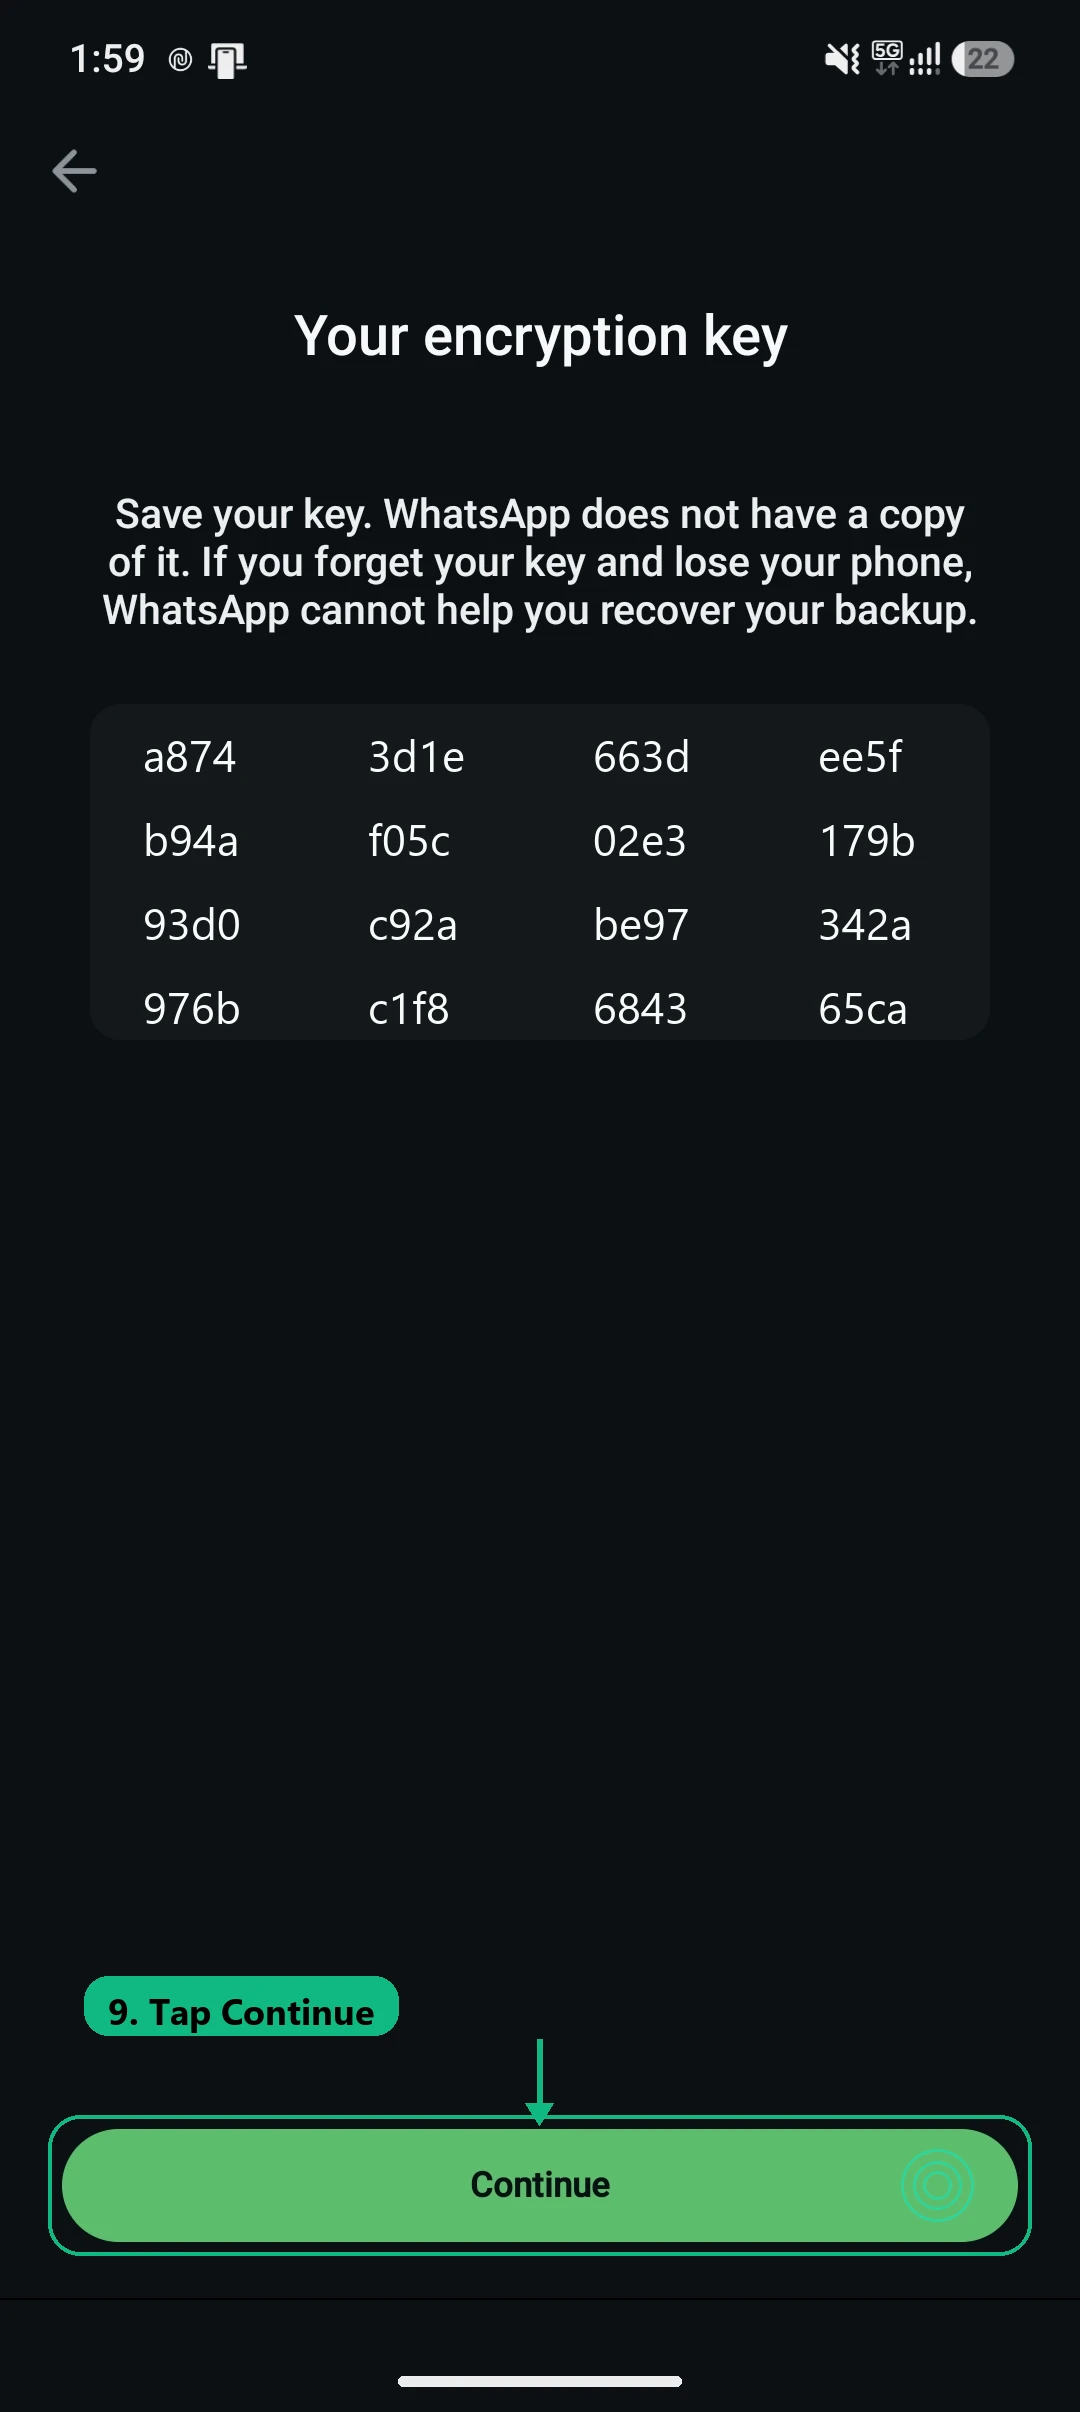
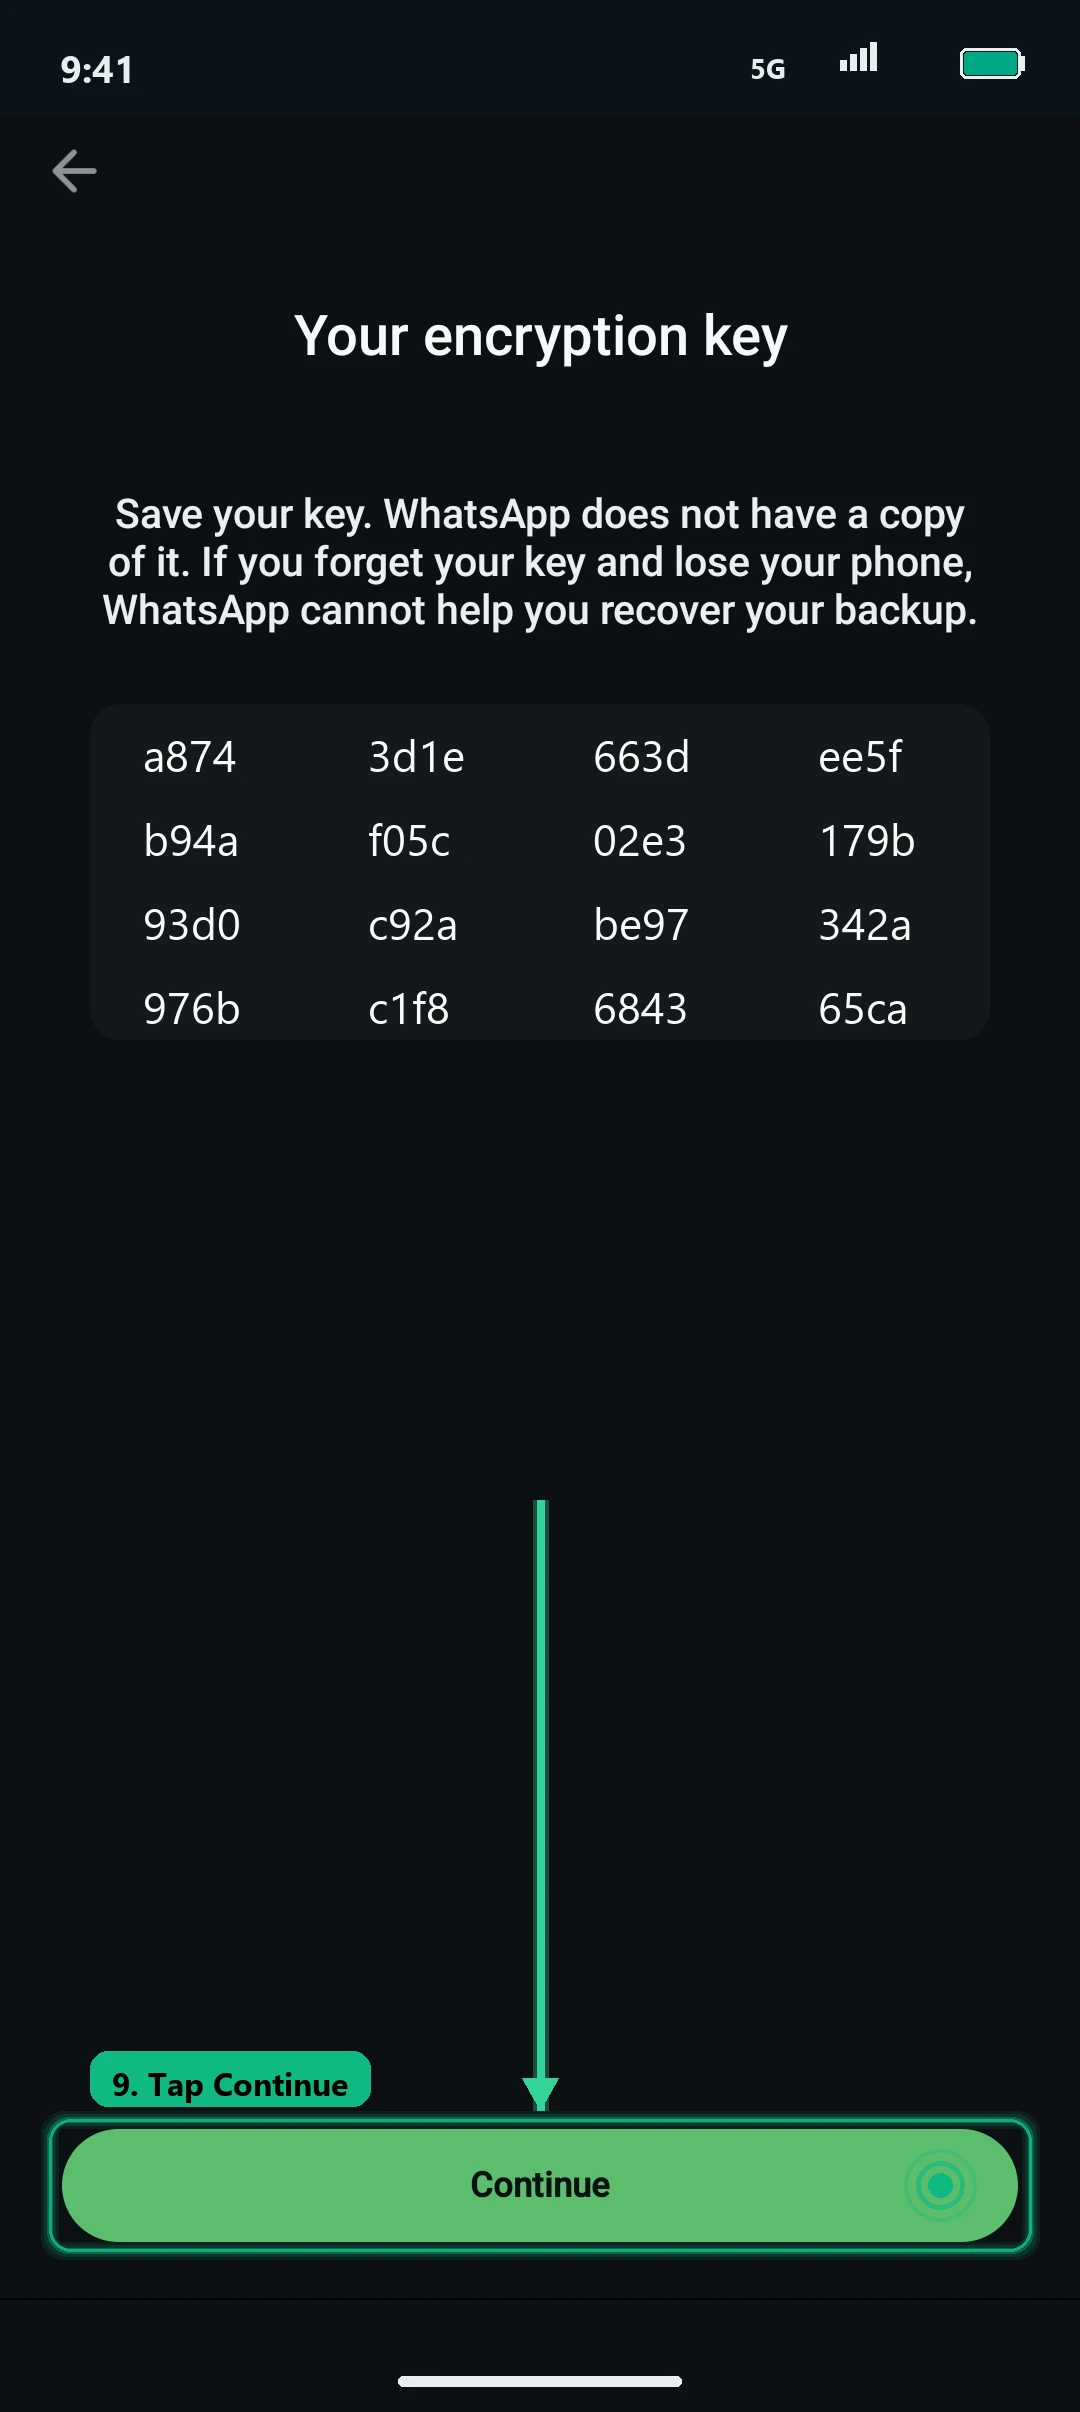
fix missing tutorial carousels

diff --git a/scripts/process_tutorial_assets.py b/scripts/process_tutorial_assets.py
@@ -295,55 +295,11 @@ def draw_ripple(draw: ImageDraw.Draw, cx: int, cy: int, r_max: int = 36, color=A
         if r > 0:
             draw.ellipse([cx - r, cy - r, cx + r, cy + r], outline=color, width=3)
 
-def draw_button_highlight(draw: ImageDraw.Draw, btn_box: tuple, badge_num: int, badge_text: str, arrow_len: int = 70):
-    """Draw standard green rounded bounding box with badge pill and arrow."""
-    x0, y0, x1, y1 = btn_box
-    box_x0 = x0 - 14
-    box_y0 = y0 - 14
-    box_x1 = x1 + 14
-    box_y1 = y1 + 14
-
-    draw.rounded_rectangle([box_x0, box_y0, box_x1, box_y1], radius=32, outline=ACCENT_GREEN, width=4)
-
-    ripple_cx = x1 - 80
-    ripple_cy = (y0 + y1) // 2
-    draw_ripple(draw, ripple_cx, ripple_cy, r_max=36, color=BRIGHT_GREEN)
-
-    font_badge = get_font(36, bold=True)
-    full_text = f"{badge_num}. {badge_text}"
-    t_box = font_badge.getbbox(full_text)
-    tw = t_box[2] - t_box[0]
-    th = t_box[3] - t_box[1]
-
-    pad_x = 24
-    pad_y = 12
-    badge_w = tw + pad_x * 2
-    badge_h = th + pad_y * 2
-
-    badge_x0 = box_x0 + 36
-    badge_y0 = box_y0 - badge_h - arrow_len
-    badge_x1 = badge_x0 + badge_w
-    badge_y1 = badge_y0 + badge_h
-
-    draw.rounded_rectangle([badge_x0, badge_y0, badge_x1, badge_y1], radius=24, fill=ACCENT_GREEN)
-    tx = badge_x0 + pad_x
-    ty = badge_y0 + (badge_h - th) // 2 - 2
-    draw.text((tx, ty), full_text, fill=(0, 0, 0), font=font_badge)
-
-    arrow_x = (x0 + x1) // 2
-    arrow_y0 = badge_y1 + 4
-    arrow_y1 = box_y0 - 2
-    draw.line([arrow_x, arrow_y0, arrow_x, arrow_y1], fill=ACCENT_GREEN, width=6)
-    draw.polygon([
-        (arrow_x, arrow_y1 + 12),
-        (arrow_x - 14, arrow_y1 - 10),
-        (arrow_x + 14, arrow_y1 - 10),
-    ], fill=ACCENT_GREEN)
-
 def process_slide_7() -> Image.Image:
     """Step 8 (Slide 7): Long press on key table & tap Copy."""
     raw = Image.open(os.path.join(RAW_DIR, "7.png"))
     im = normalize_canvas(raw)
+    draw_clean_status_bar(im)
     draw = ImageDraw.Draw(im)
 
     redact_key_table(draw, card_y_top=704)
@@ -391,33 +347,59 @@ def process_slide_7() -> Image.Image:
     return im
 
 def process_slide_8() -> Image.Image:
-    """Step 9 (Slide 8): Tap Continue."""
+    """Step 9 (Slide 8): Tap Continue (matches wa_step6.webp design language)."""
     raw = Image.open(os.path.join(RAW_DIR, "7.png"))
     im = normalize_canvas(raw)
+    draw_clean_status_bar(im)
     draw = ImageDraw.Draw(im)
     redact_key_table(draw, card_y_top=704)
-    btn_box = (62, 2129, 1017, 2241)
-    draw_button_highlight(draw, btn_box, badge_num=9, badge_text="Tap Continue", arrow_len=80)
-    return im
+    # Box [50, 2120, 1030, 2250] with tight label and long arrow starting at Y=1500
+    out = draw_focus_spotlight(
+        im,
+        [50, 2120, 1030, 2250],
+        color=ACCENT_GREEN,
+        label="9. Tap Continue",
+        badge_pos="above",
+        arrow_dir="down",
+        arrow_from_y=1500
+    )
+    return out
 
 def process_slide_9() -> Image.Image:
-    """Step 10 (Slide 9): Confirm I Saved My 64-digit Key."""
+    """Step 10 (Slide 9): Confirm I Saved My 64-digit Key (matches wa_step6.webp design language)."""
     raw = Image.open(os.path.join(RAW_DIR, "8.png"))
     im = normalize_canvas(raw)
+    draw_clean_status_bar(im)
     draw = ImageDraw.Draw(im)
     redact_key_table(draw, card_y_top=727)
-    btn_box = (62, 1995, 1017, 2105)
-    draw_button_highlight(draw, btn_box, badge_num=10, badge_text="Tap 'I Saved My Key'", arrow_len=75)
-    return im
+    # Box [50, 1985, 1030, 2115] with tight label and long arrow starting at Y=1400
+    out = draw_focus_spotlight(
+        im,
+        [50, 1985, 1030, 2115],
+        color=ACCENT_GREEN,
+        label="10. Tap 'I Saved My Key'",
+        badge_pos="above",
+        arrow_dir="down",
+        arrow_from_y=1400
+    )
+    return out
 
 def process_slide_10() -> Image.Image:
-    """Step 11 (Slide 10): Tap Create."""
+    """Step 11 (Slide 10): Tap Create (matches wa_step6.webp design language)."""
     raw = Image.open(os.path.join(RAW_DIR, "9.png"))
     im = normalize_canvas(raw)
-    draw = ImageDraw.Draw(im)
-    btn_box = (62, 1995, 1017, 2105)
-    draw_button_highlight(draw, btn_box, badge_num=11, badge_text="Tap Create", arrow_len=75)
-    return im
+    draw_clean_status_bar(im)
+    # Box [50, 1985, 1030, 2115] with tight label and long arrow starting at Y=1350
+    out = draw_focus_spotlight(
+        im,
+        [50, 1985, 1030, 2115],
+        color=ACCENT_GREEN,
+        label="11. Tap Create",
+        badge_pos="above",
+        arrow_dir="down",
+        arrow_from_y=1350
+    )
+    return out
 
 def main():
     print("[1/11] Processing Slide 0 (Main Menu -> Settings)...")
